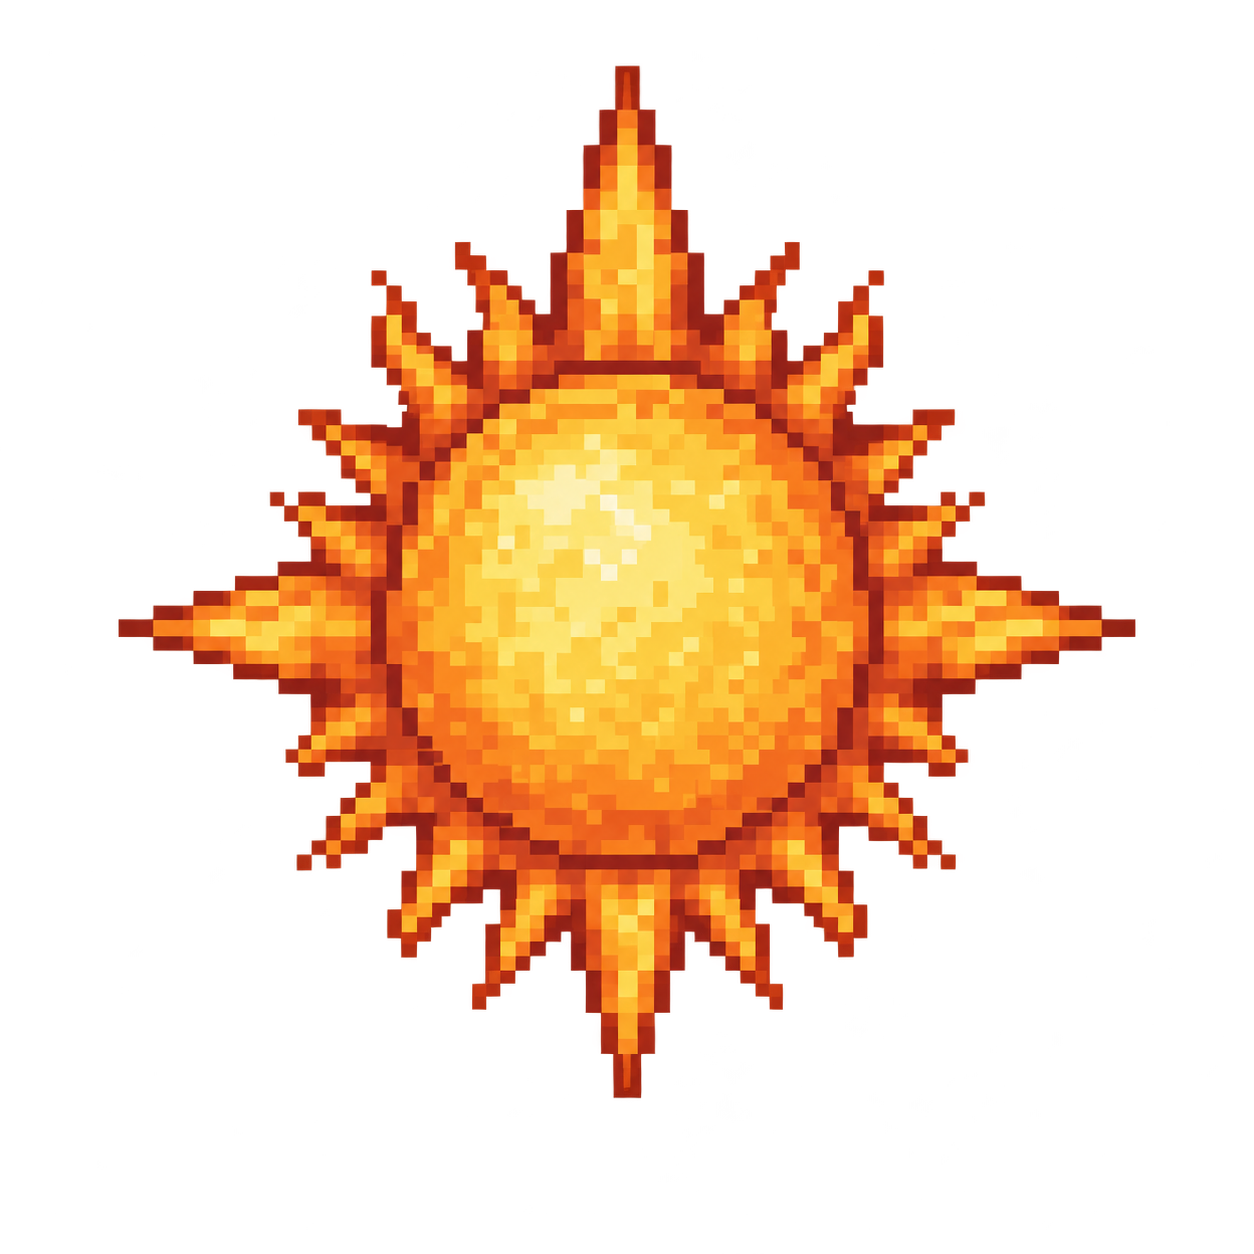
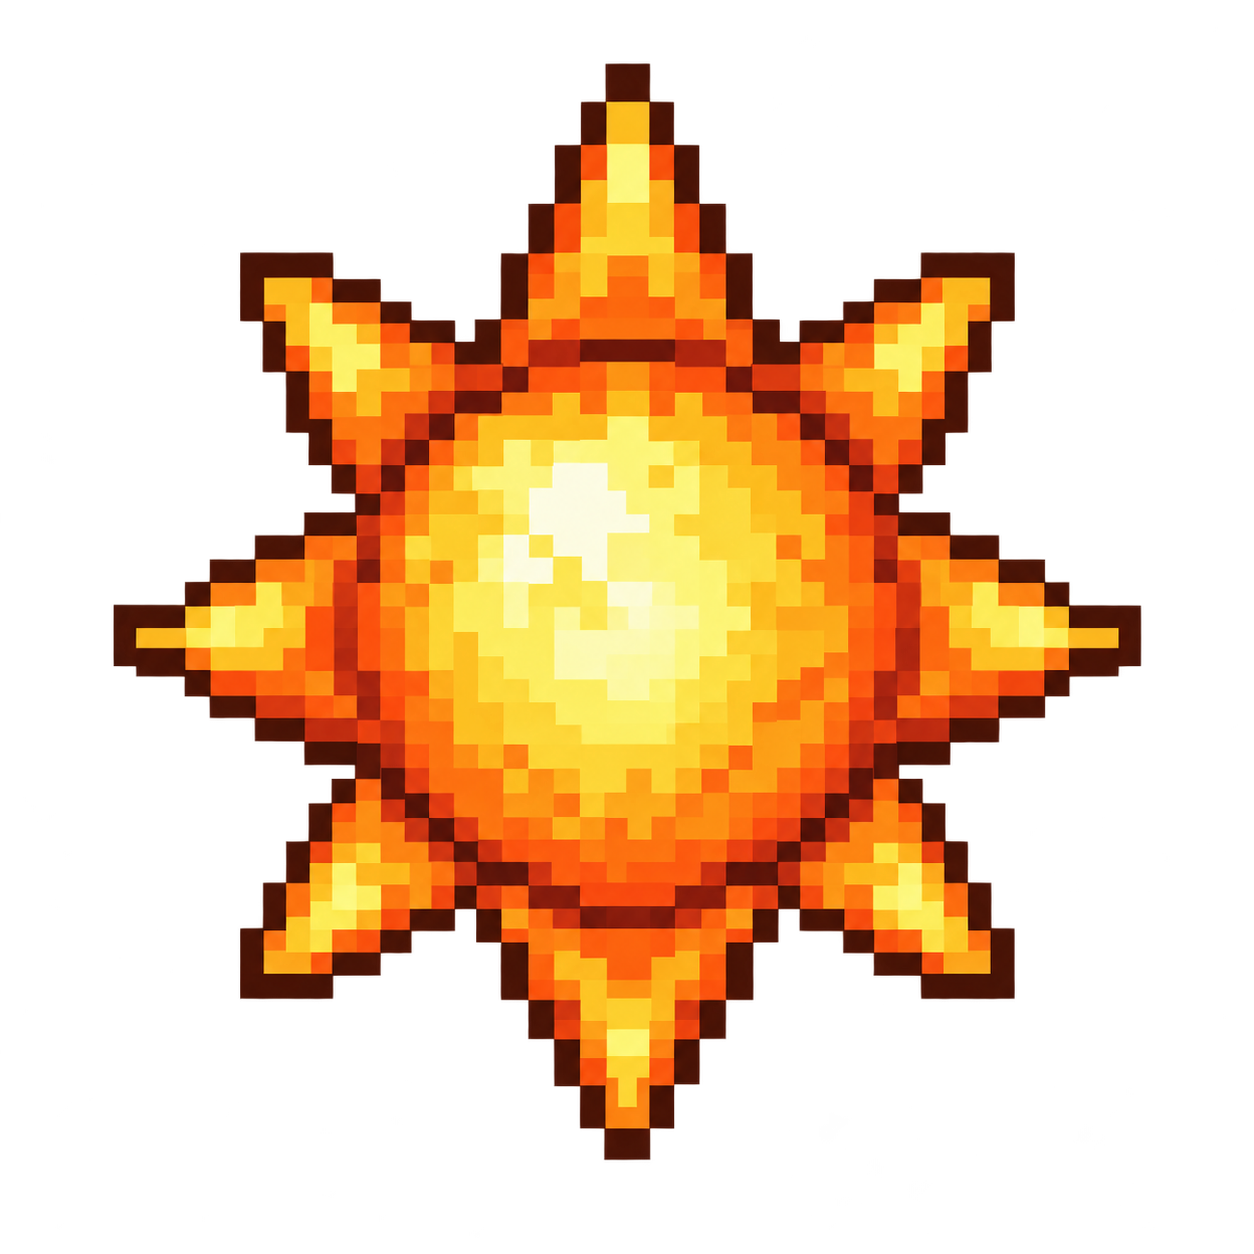
feat(dig): 树密度翻倍 + 新版太阳贴图 (v=338)
用户: 「树弄多点，sun.png更新了」。

- worldgen: 树间距 12-24 → 6-13 格 (密度约翻倍); sprite 池随机
  rand()*4 → *3 (VARIANTS 现在长 3, 旧写法第四档永远取模到 0)
- 新 sun.png (661KB, 1254x1254 RGBA, 透明底 64%) 从主区同步,
  cache-bust v=c1 → c2

diff --git a/website/js/worldgen.js b/website/js/worldgen.js
@@ -382,8 +382,8 @@
            never straddle cliff steps or sprout on stone/sand. */
         /* sprite index: modded by the VARIANTS pool length in game2
            (3 hand-keyed trees + the maple showcase art) */
-        trees.push({ x: tx, y: surfaceY[tx], sprite: Math.floor(rand() * 4) });
-        tx += 12 + Math.floor(rand() * 13);
+        trees.push({ x: tx, y: surfaceY[tx], sprite: Math.floor(rand() * 3) });
+        tx += 6 + Math.floor(rand() * 8);   /* v10.1 (USER: 树弄多点) 密度翻倍: 间距 12-24 → 6-13 */
       } else {
         /* open ground deco RETIRED (USER: 这种堆叠起来的东西也去掉): the
            sapling/stump art read as odd stacked spheres on the lawn.

diff --git a/website/js/game2.js b/website/js/game2.js
@@ -264,7 +264,7 @@
     this.load.image('fountain', 'assets/big/fountain.png?v=p1');
     /* celestial art (USER): drawSky blits this sun and moon
        instead of the baked gradient discs */
-    this.load.image('sunImg', 'assets/mc/sun.png?v=c1');
+    this.load.image('sunImg', 'assets/mc/sun.png?v=c2');
     this.load.image('moonImg', 'assets/mc/moon_hard.png?v=c2');
     /* thunder samples (v7.1, USER: 去网上找点雷雨的音效) — CC0 from
        BigSoundBank (public domain, no attribution required). 6 takes:

diff --git a/website/index.html b/website/index.html
@@ -313,6 +313,6 @@ tests/test_invoice.py <span class="s">......</span>  <span class="m">[ 18/1070 ]
 <script src="assets/mc/tiles.meta.js?v=16"></script>
 <script src="js/worldgen.js?v=35"></script>
 <script src="js/vendor/phaser.min.js"></script>
-<script src="js/game2.js?v=337"></script>
+<script src="js/game2.js?v=338"></script>
 </body>
 </html>
